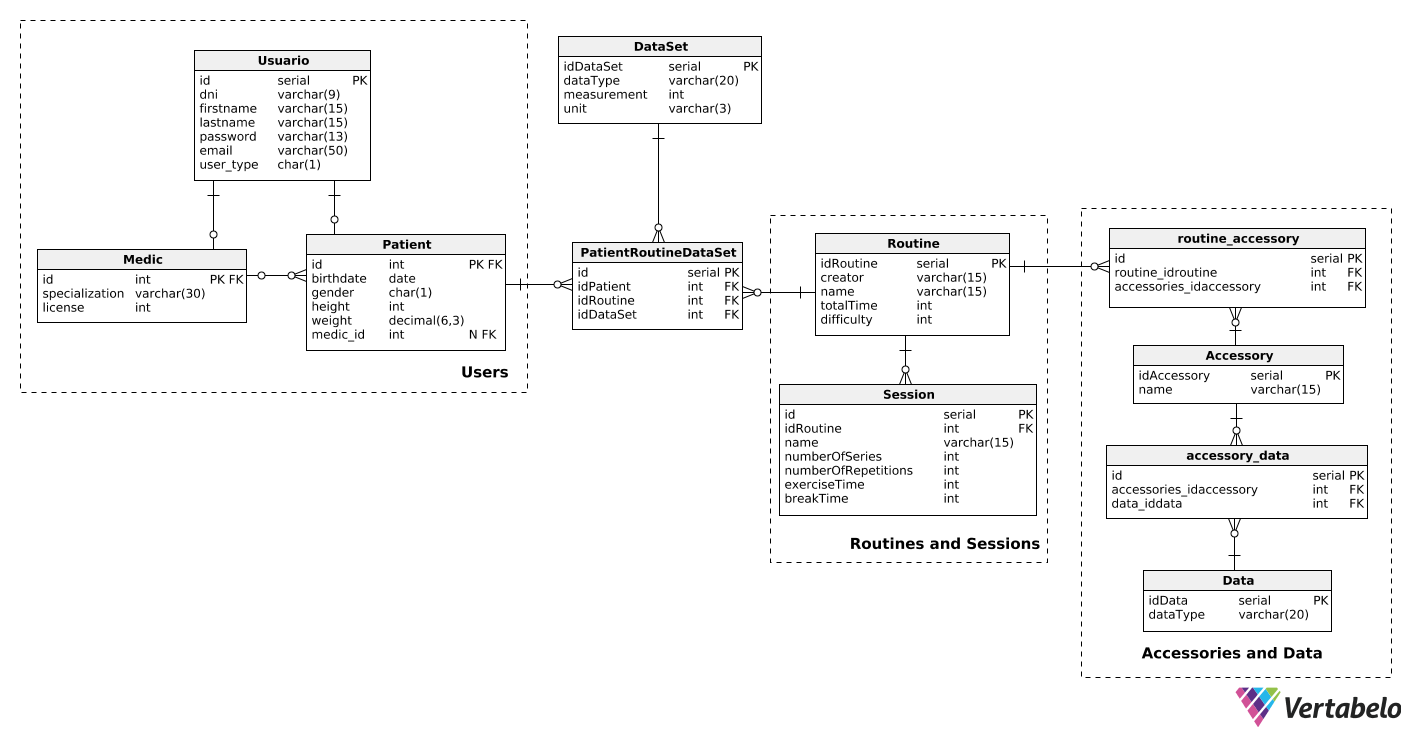
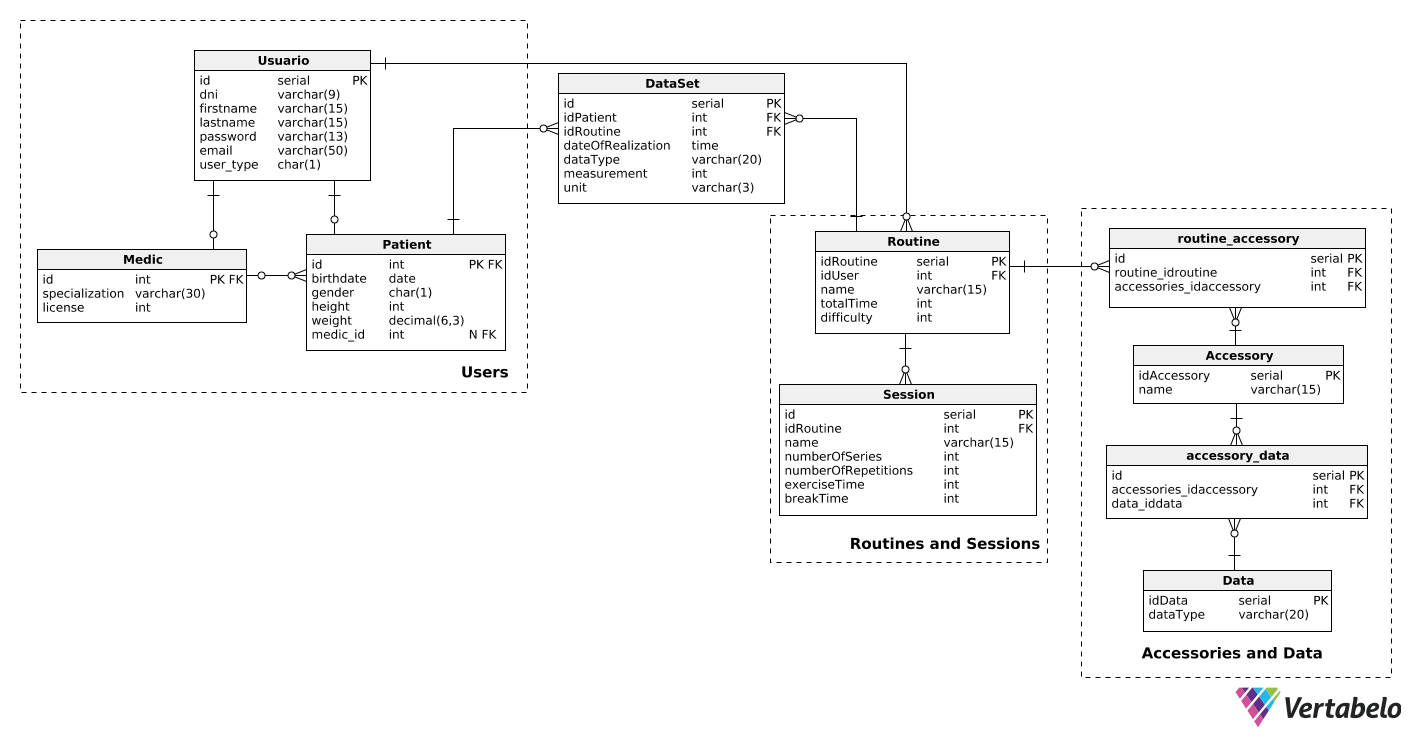
Fix base de datos & Entidades

Changed region(s): [[0.3742, 0.0312, 0.5613, 0.2809], [0.5613, 0.3121, 0.7172, 0.4681], [0.3742, 0.3121, 0.5301, 0.4369]]

diff --git a/cloud/src/main/java/org/magritte/rayman/data/entity/DataSet.java b/cloud/src/main/java/org/magritte/rayman/data/entity/DataSet.java
@@ -7,14 +7,17 @@ import lombok.NoArgsConstructor;
 import lombok.Setter;
 import lombok.ToString;
 
+import javax.persistence.CascadeType;
 import javax.persistence.Column;
 import javax.persistence.Entity;
+import javax.persistence.FetchType;
 import javax.persistence.GeneratedValue;
 import javax.persistence.GenerationType;
 import javax.persistence.Id;
 import javax.persistence.JoinColumn;
 import javax.persistence.ManyToOne;
 import javax.persistence.Table;
+import java.time.LocalTime;
 import java.util.Date;
 
 @NoArgsConstructor
@@ -24,27 +27,28 @@ import java.util.Date;
 @EqualsAndHashCode(onlyExplicitlyIncluded = true)
 @ToString(onlyExplicitlyIncluded = true)
 @Entity
-@Table(name = "patientroutinedataset")
+@Table(name = "dataset")
 public class DataSet {
 
     @Id
     @GeneratedValue(strategy = GenerationType.IDENTITY)
-    @Column(nullable = false, name = "iddataset")
+    @Column(nullable = false)
     @EqualsAndHashCode.Include
-    private Integer idDataSet;
+    private Integer id;
 
     @ToString.Include
-    @ManyToOne
+    @ManyToOne(fetch = FetchType.LAZY, cascade = CascadeType.ALL)
     @JoinColumn(name = "idpatient")
     private Patient patient;
 
     @ToString.Include
-    @ManyToOne
+    @ManyToOne(fetch = FetchType.LAZY, cascade = CascadeType.ALL)
     @JoinColumn(name = "idroutine")
     private Routine routine;
 
     @ToString.Include
-    private Date fecha_realizacion;
+    @Column(name = "dateofrealization")
+    private LocalTime dateOfRealization;
 
     @ToString.Include
     @Column(name = "datatype")
@@ -56,4 +60,13 @@ public class DataSet {
     @ToString.Include
     private int measurement;
 
-   }
+    public DataSet(Patient patient, Routine routine, LocalTime dateOfRealization, String dataType, String unit, int measurement) {
+        this.patient = patient;
+        this.routine = routine;
+        this.dateOfRealization = dateOfRealization;
+        this.dataType = dataType;
+        this.unit = unit;
+        this.measurement = measurement;
+    }
+
+}

diff --git a/cloud/src/main/java/org/magritte/rayman/rest/controller/RoutineController.java b/cloud/src/main/java/org/magritte/rayman/rest/controller/RoutineController.java
@@ -1,11 +1,13 @@
 package org.magritte.rayman.rest.controller;
 
 import org.magritte.rayman.data.entity.Routine;
+import org.magritte.rayman.data.entity.User;
 import org.magritte.rayman.rest.request.RoutineRequest;
 import org.magritte.rayman.rest.request.SessionRequest;
 import org.magritte.rayman.rest.response.RoutineResponse;
 import org.magritte.rayman.rest.response.SessionResponse;
 import org.magritte.rayman.service.RoutineService;
+import org.magritte.rayman.service.UserService;
 import org.springframework.beans.factory.annotation.Autowired;
 import org.springframework.http.HttpStatus;
 import org.springframework.web.bind.annotation.GetMapping;
@@ -27,6 +29,9 @@ public class RoutineController {
 
     @Autowired
     private RoutineService routineService;
+
+    @Autowired
+    private UserService userService;
 
     @GetMapping("/routine/{id}")
     @ResponseBody
@@ -62,19 +67,20 @@ public class RoutineController {
         return routineService.getRoutinesByName(name);
     }
 
-    //TODO cambiar el creador por usuario. (Seria mejor implementarlo desde usercontroller y no desde rutina)
     @GetMapping("/routines/creator/{creator}")
     @ResponseBody
     @ResponseStatus(code = HttpStatus.OK)
     @Transactional
-    public List<RoutineResponse> getRoutinesByCreator(@PathVariable String creator) {
-        return routineService.getRoutinesByCreator(creator);
+    public List<RoutineResponse> getRoutinesByCreator(@PathVariable Integer idUser) {
+        User user = userService.getUserById(idUser);
+        return routineService.getRoutinesByUser(user);
     }
 
     @PostMapping("/routine")
     @ResponseStatus(code = HttpStatus.OK)
     public void addRoutine(@RequestBody @Valid RoutineRequest request) {
-        routineService.save(request.toNewEntity());
+        User user = userService.getUserById(request.getIdUser());
+        routineService.save(request.toNewEntity(user));
     }
 
     @PostMapping("/routine/{idRoutine}/session")

diff --git a/cloud/src/main/java/org/magritte/rayman/data/entity/Routine.java b/cloud/src/main/java/org/magritte/rayman/data/entity/Routine.java
@@ -6,7 +6,17 @@ import lombok.NoArgsConstructor;
 import lombok.Setter;
 import lombok.ToString;
 
-import javax.persistence.*;
+import javax.persistence.CascadeType;
+import javax.persistence.Column;
+import javax.persistence.Entity;
+import javax.persistence.FetchType;
+import javax.persistence.GeneratedValue;
+import javax.persistence.GenerationType;
+import javax.persistence.Id;
+import javax.persistence.JoinColumn;
+import javax.persistence.ManyToMany;
+import javax.persistence.ManyToOne;
+import javax.persistence.OneToMany;
 import java.util.Set;
 
 @Getter
@@ -27,8 +37,9 @@ public class Routine {
     private Integer idRoutine;
 
     @ToString.Include
-    @ManyToOne
-    private User creator;
+    @ManyToOne(fetch = FetchType.LAZY, cascade = CascadeType.ALL)
+    @JoinColumn(name = "iduser")
+    private User user;
 
     @ToString.Include
     @Column(name = "name")
@@ -48,10 +59,10 @@ public class Routine {
     private Set<Session> sessions;
 
     @OneToMany(fetch = FetchType.LAZY, cascade = CascadeType.ALL, mappedBy = NAME_TABLE)
-    private Set<DataSet> patientRoutineDataSet;
+    private Set<DataSet> dataSets;
 
-    public Routine(User creator, String name, int totalTime, int difficulty) {
-        this.creator = creator;
+    public Routine(User user, String name, int totalTime, int difficulty) {
+        this.user = user;
         this.name = name;
         this.totalTime = totalTime;
         this.difficulty = difficulty;

diff --git a/cloud/src/main/java/org/magritte/rayman/rest/request/DataSetRequest.java b/cloud/src/main/java/org/magritte/rayman/rest/request/DataSetRequest.java
@@ -4,10 +4,14 @@ import lombok.AllArgsConstructor;
 import lombok.Getter;
 import lombok.NoArgsConstructor;
 import lombok.Setter;
+import org.magritte.rayman.data.entity.DataSet;
+import org.magritte.rayman.data.entity.Patient;
+import org.magritte.rayman.data.entity.Routine;
 
 import javax.validation.constraints.Min;
 import javax.validation.constraints.NotNull;
 import javax.validation.constraints.Size;
+import java.time.LocalTime;
 
 @Getter
 @Setter
@@ -15,19 +19,27 @@ import javax.validation.constraints.Size;
 @AllArgsConstructor
 public class DataSetRequest {
 
+    @Min(1)
+    @NotNull
+    private Integer idPatient;
+
+    @Min(1)
+    @NotNull
+    private Integer idRoutine;
+
     @Size(min = 3, max = 20)
     @NotNull
     private String dataType;
-
-    @Min(0)
-    @NotNull
-    private int measurement;
 
     @Size(min = 1, max = 3)
     @NotNull
     private String unit;
 
-    public DataSet toNewEntity() {
-        return new DataSet(getDataType(), getMeasurement(), getUnit());
+    @Min(0)
+    @NotNull
+    private int measurement;
+
+    public DataSet toNewEntity(Patient patient, Routine routine) {
+        return new DataSet(patient, routine, LocalTime.now(), getDataType(), getUnit(), getMeasurement());
     }
 }

diff --git a/cloud/src/main/java/org/magritte/rayman/data/entity/User.java b/cloud/src/main/java/org/magritte/rayman/data/entity/User.java
@@ -6,7 +6,17 @@ import lombok.NoArgsConstructor;
 import lombok.Setter;
 import lombok.ToString;
 
-import javax.persistence.*;
+import javax.persistence.Column;
+import javax.persistence.Entity;
+import javax.persistence.FetchType;
+import javax.persistence.GeneratedValue;
+import javax.persistence.GenerationType;
+import javax.persistence.Id;
+import javax.persistence.Inheritance;
+import javax.persistence.InheritanceType;
+import javax.persistence.OneToMany;
+import javax.persistence.SequenceGenerator;
+import javax.persistence.Table;
 import java.util.Set;
 
 @Getter
@@ -47,8 +57,8 @@ public abstract class User {
     @ToString.Include
     private char userType;
 
-    @OneToMany(fetch = FetchType.LAZY, mappedBy = "creator")
-    private Set<Routine> rutinasCreadas;
+    @OneToMany(fetch = FetchType.LAZY, mappedBy = "user")
+    private Set<Routine> routines;
 
     public User(String dni, String name, String lastname, String password, String email, char userType) {
         this.dni = dni;

diff --git a/cloud/src/main/java/org/magritte/rayman/rest/response/DataSetResponse.java b/cloud/src/main/java/org/magritte/rayman/rest/response/DataSetResponse.java
@@ -3,6 +3,9 @@ package org.magritte.rayman.rest.response;
 import lombok.Getter;
 import lombok.NoArgsConstructor;
 import lombok.Setter;
+import org.magritte.rayman.data.entity.DataSet;
+
+import java.time.LocalTime;
 
 @Getter
 @Setter
@@ -10,12 +13,18 @@ import lombok.Setter;
 public class DataSetResponse {
 
     private Integer idDataSet;
+    private Integer idPatient;
+    private Integer idRoutine;
+    private LocalTime dateOfRealization;
     private String dataType;
     private int measurement;
     private String unit;
 
     public DataSetResponse(DataSet dataSet) {
-        this.idDataSet = dataSet.getIdDataSet();
+        this.idDataSet = dataSet.getId();
+        this.idPatient = dataSet.getPatient().getId();
+        this.idRoutine = dataSet.getRoutine().getIdRoutine();
+        this.dateOfRealization = dataSet.getDateOfRealization();
         this.dataType = dataSet.getDataType();
         this.measurement = dataSet.getMeasurement();
         this.unit = dataSet.getUnit();

diff --git a/cloud/src/main/java/org/magritte/rayman/rest/request/RoutineRequest.java b/cloud/src/main/java/org/magritte/rayman/rest/request/RoutineRequest.java
@@ -5,6 +5,7 @@ import lombok.Getter;
 import lombok.NoArgsConstructor;
 import lombok.Setter;
 import org.magritte.rayman.data.entity.Routine;
+import org.magritte.rayman.data.entity.User;
 
 import javax.validation.constraints.Max;
 import javax.validation.constraints.Min;
@@ -17,9 +18,9 @@ import javax.validation.constraints.Size;
 @AllArgsConstructor
 public class RoutineRequest {
 
-    @Size(min = 3, max = 15)
+    @Min(1)
     @NotNull
-    private String creator;
+    private Integer idUser;
 
     @Size(min = 3, max = 15)
     @NotNull
@@ -34,7 +35,7 @@ public class RoutineRequest {
     @NotNull
     private int difficulty;
 
-    public Routine toNewEntity() {
-        return new Routine(getCreator(), getName(), getTotalTime(), getDifficulty());
+    public Routine toNewEntity(User user) {
+        return new Routine(user, getName(), getTotalTime(), getDifficulty());
     }
 }

diff --git a/cloud/src/main/java/org/magritte/rayman/service/RoutineService.java b/cloud/src/main/java/org/magritte/rayman/service/RoutineService.java
@@ -2,6 +2,7 @@ package org.magritte.rayman.service;
 
 import org.magritte.rayman.data.entity.Routine;
 import org.magritte.rayman.data.entity.Session;
+import org.magritte.rayman.data.entity.User;
 import org.magritte.rayman.data.repository.RoutineRepository;
 import org.magritte.rayman.data.repository.SessionRepository;
 import org.magritte.rayman.exceptions.RoutineNotFoundException;
@@ -59,8 +60,8 @@ public class RoutineService {
         return routineRepository.findAllByName(name);
     }
 
-    public List<RoutineResponse> getRoutinesByCreator(String name) {
-        return routineRepository.findAllByCreator(name);
+    public List<RoutineResponse> getRoutinesByUser(User user) {
+        return routineRepository.findAllByUser(user);
     }
 
     public void save(Routine routine) {

diff --git a/cloud/src/main/java/org/magritte/rayman/rest/response/RoutineResponse.java b/cloud/src/main/java/org/magritte/rayman/rest/response/RoutineResponse.java
@@ -14,7 +14,7 @@ import java.util.stream.Collectors;
 public class RoutineResponse {
 
     private Integer idRoutine;
-    private String creator;
+    private Integer idUser;
     private String name;
     private int totalTime;
     private int difficulty;
@@ -23,7 +23,7 @@ public class RoutineResponse {
 
     public RoutineResponse(Routine routine) {
         this.idRoutine = routine.getIdRoutine();
-        this.creator = routine.getCreator();
+        this.idUser = routine.getUser().getId();
         this.name = routine.getName();
         this.totalTime = routine.getTotalTime();
         this.difficulty = routine.getDifficulty();

diff --git a/cloud/src/main/java/org/magritte/rayman/rest/controller/UserController.java b/cloud/src/main/java/org/magritte/rayman/rest/controller/UserController.java
@@ -113,7 +113,7 @@ public class UserController {
     @GetMapping("/patient/{id}")
     public PatientResponse getPatient(@PathVariable Integer id) {
         User user = userService.getUserById(id);
-        return new PatientResponse((Patient) user);
+        return new PatientResponse(user);
     }
 
     /**
@@ -125,7 +125,7 @@ public class UserController {
     @GetMapping("/medic/{id}")
     public MedicResponse getMedic(@PathVariable Integer id) {
         User user = userService.getUserById(id);
-        return new MedicResponse((Medic) user);
+        return new MedicResponse(user);
     }
 
     /**

diff --git a/cloud/src/main/java/org/magritte/rayman/data/repository/DataSetRepository.java b/cloud/src/main/java/org/magritte/rayman/data/repository/DataSetRepository.java
@@ -20,6 +20,11 @@ public interface DataSetRepository extends JpaRepository<DataSet, Integer> {
 
     List<DataSet> findAllByPatient(@NotNull Patient paciente);
 
-    //CHEQUEAR CONVENCION DE COMO IMPLEMENTAR CUANDO SE BUSCA POR MAS DE UN CAMPO.
-//    Set<DataSet> findByPatient(@NotNull Patient paciente, @NotNull Routine routine);
+    Set<DataSet> findByPatientAndRoutine(@NotNull Patient paciente, @NotNull Routine routine);
+
+    List<DataSetResponse> findByDataType(String dataType);
+
+    List<DataSetResponse> findByMeasurement(int measurement);
+
+    List<DataSetResponse> findByUnit(String unit);
 }

diff --git a/cloud/src/main/java/org/magritte/rayman/data/entity/Patient.java b/cloud/src/main/java/org/magritte/rayman/data/entity/Patient.java
@@ -45,7 +45,7 @@ public class Patient extends User {
 
     @JsonIgnore
     @OneToMany(fetch = FetchType.LAZY, cascade = CascadeType.ALL, mappedBy = NAME_TABLE)
-    private Set<PatientRoutineDataSet> patientRoutineDataSet;
+    private Set<DataSet> dataSets;
 
     public Patient(String dni, String name, String lastname, String password, String email,
                    Date birthdate, char gender, int height, float weight) {
